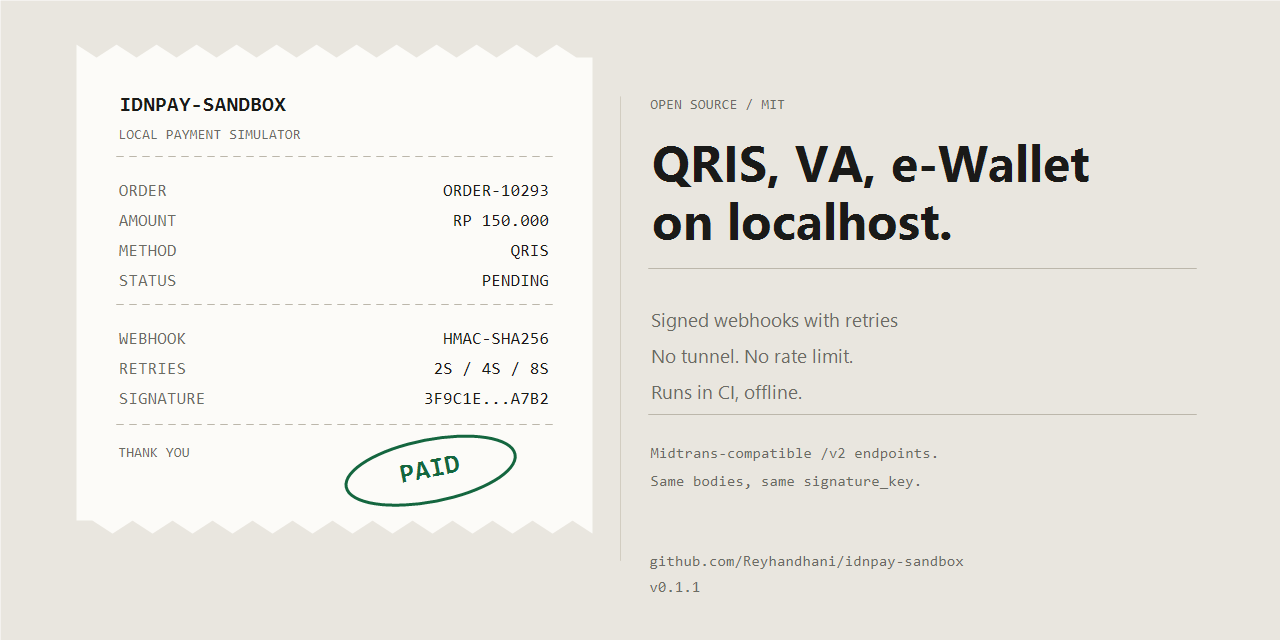
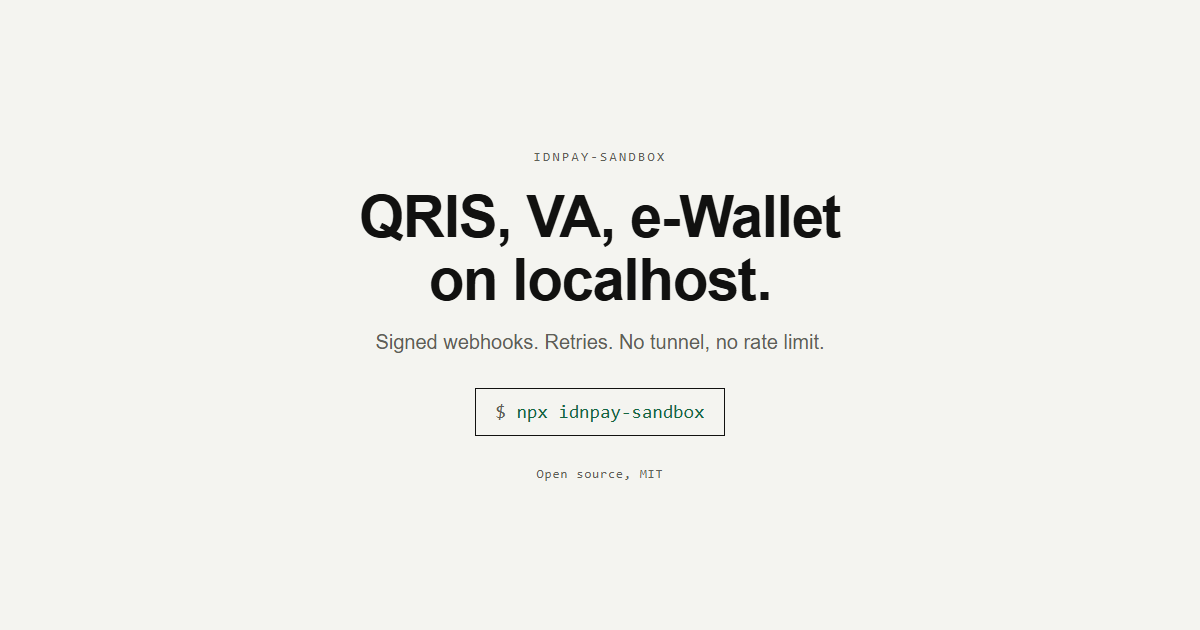
chore(site): replace the social card with a center-safe image
The 2:1 card lost its headline when platforms cropped to 1.91:1 or a center square. The new 1200x630 card keeps every word inside the center square, and the Open Graph tags now declare the size instead of leaving it to the crawler.

diff --git a/site/index.html b/site/index.html
@@ -22,8 +22,16 @@
       property="og:image"
       content="https://reyhandhani.github.io/idnpay-sandbox/assets/social-preview.png"
     />
-    <meta property="og:image:alt" content="idnpay-sandbox" />
+    <meta property="og:image:type" content="image/png" />
+    <meta property="og:image:width" content="1200" />
+    <meta property="og:image:height" content="630" />
+    <meta property="og:image:alt" content="idnpay-sandbox: QRIS, VA, and e-Wallet payments on localhost" />
     <meta name="twitter:card" content="summary_large_image" />
+    <meta
+      name="twitter:image"
+      content="https://reyhandhani.github.io/idnpay-sandbox/assets/social-preview.png"
+    />
+    <meta name="twitter:image:alt" content="idnpay-sandbox: QRIS, VA, and e-Wallet payments on localhost" />
 
     <script type="application/ld+json">
       {
